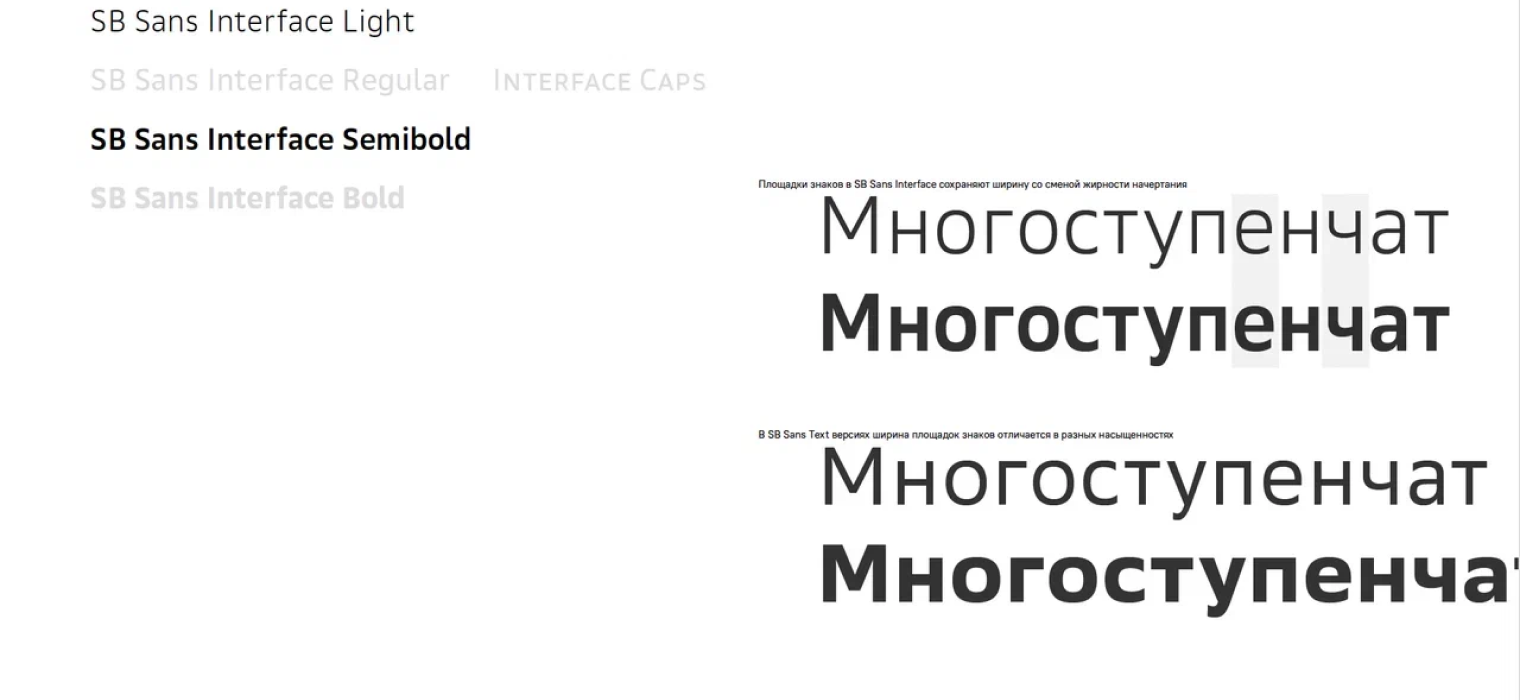
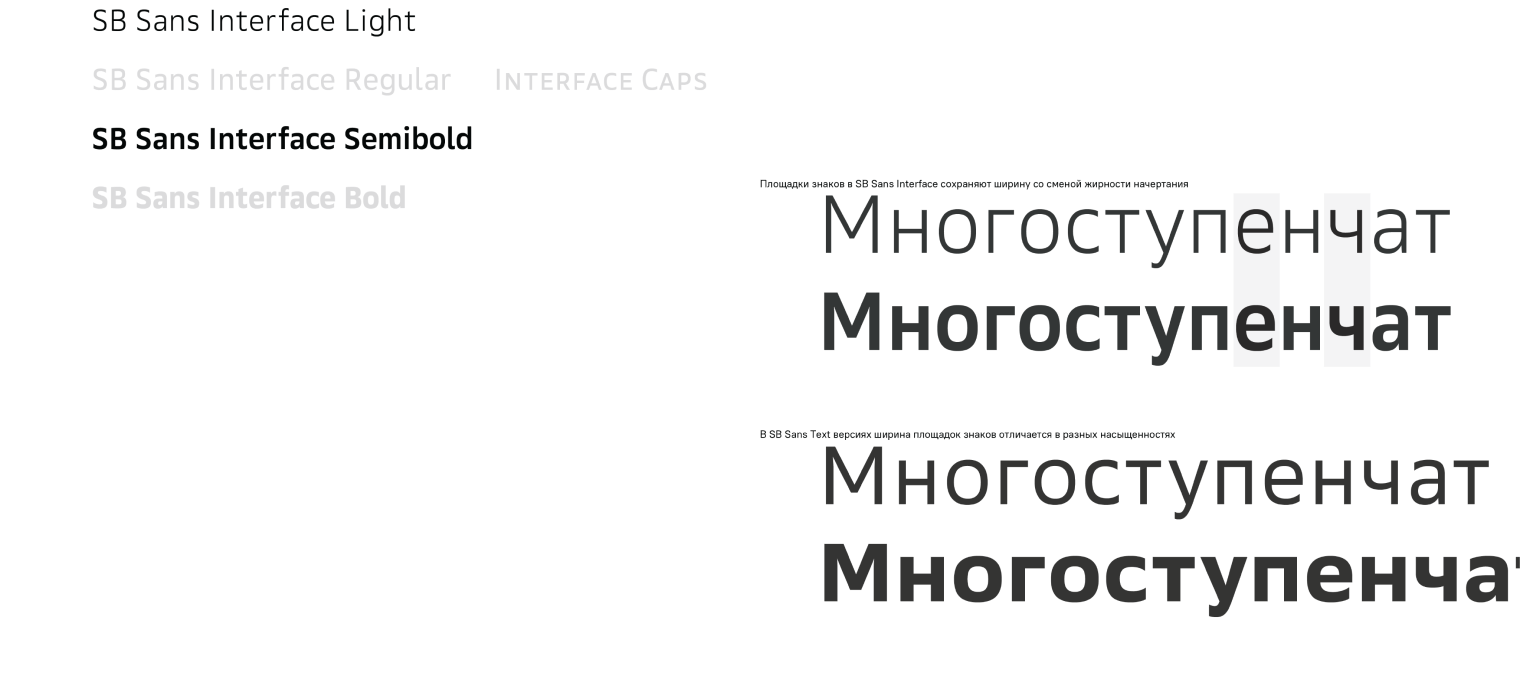
replace images project 3

diff --git a/src/pages/ProjectPages/Project3.jsx b/src/pages/ProjectPages/Project3.jsx
@@ -13,8 +13,9 @@ import galleryItem8 from "../../assets/images/project3-pic8.png";
 import galleryItem9 from "../../assets/images/project3-pic9.png";
 import galleryItem10 from "../../assets/images/project3-pic10.png";
 import galleryItem11 from "../../assets/images/project3-pic11.png";
-import galleryItem12 from "../../assets/images/project3-pic12.png";
+import galleryItem12 from "../../assets/images/project3-pic12-1.png";
 import galleryItem13 from "../../assets/images/project3-pic13.png";
+import galleryItem14 from "../../assets/images/project3-pic12-2.png";
 
 const team = [
   { role: "Art Director", name: "Anna Katsur" },
@@ -226,24 +227,31 @@ const Project3 = () => {
           <h6 className="project-article__title"> SB Serif Display</h6>
         </section>
       </div>
-      <div className="project-gallery">
+      <div className="project-gallery5">
         <img
-          className="project-gallery__img item_horizontal"
+          className="project-gallery__img item_horizontal2"
           src={galleryItem11}
           alt=""
           width="100%"
           height="100%"
         />
         <img
-          className="project-gallery__img item_horizontal"
+          className="project-gallery__img"
           src={galleryItem12}
+          alt=""
+          width="100%"
+          height="100%"
+        />
+                <img
+          className="project-gallery__img"
+          src={galleryItem14}
           alt=""
           width="100%"
           height="100%"
         />
 
         <img
-          className="project-gallery__img item_horizontal"
+          className="project-gallery__img item_horizontal2"
           src={galleryItem13}
           alt=""
           width="100%"
